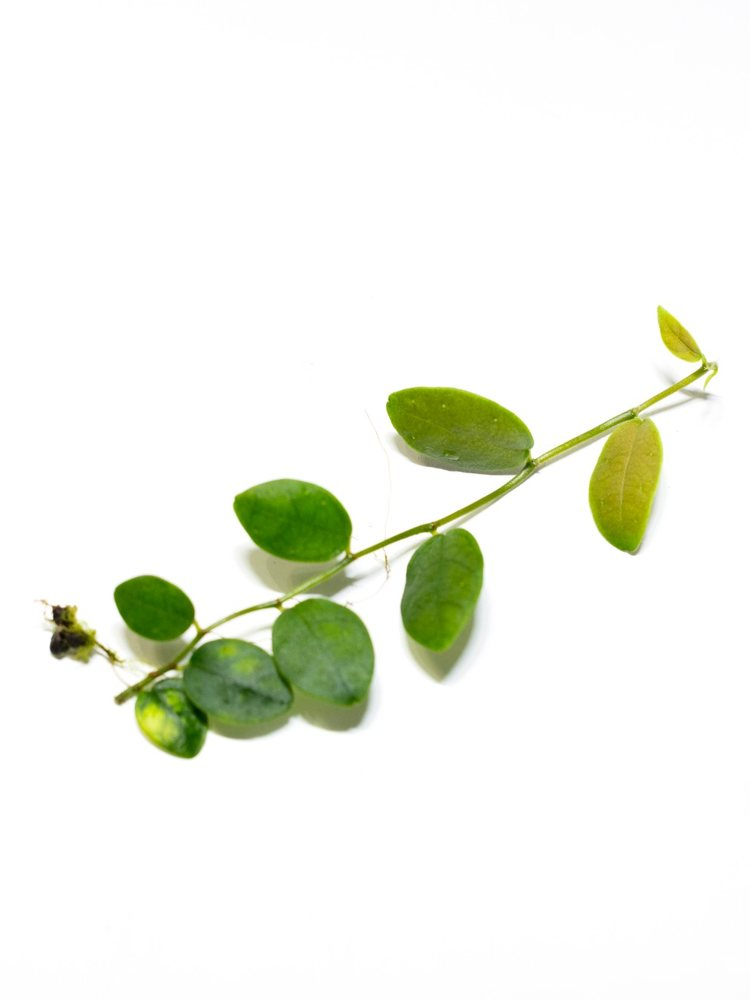
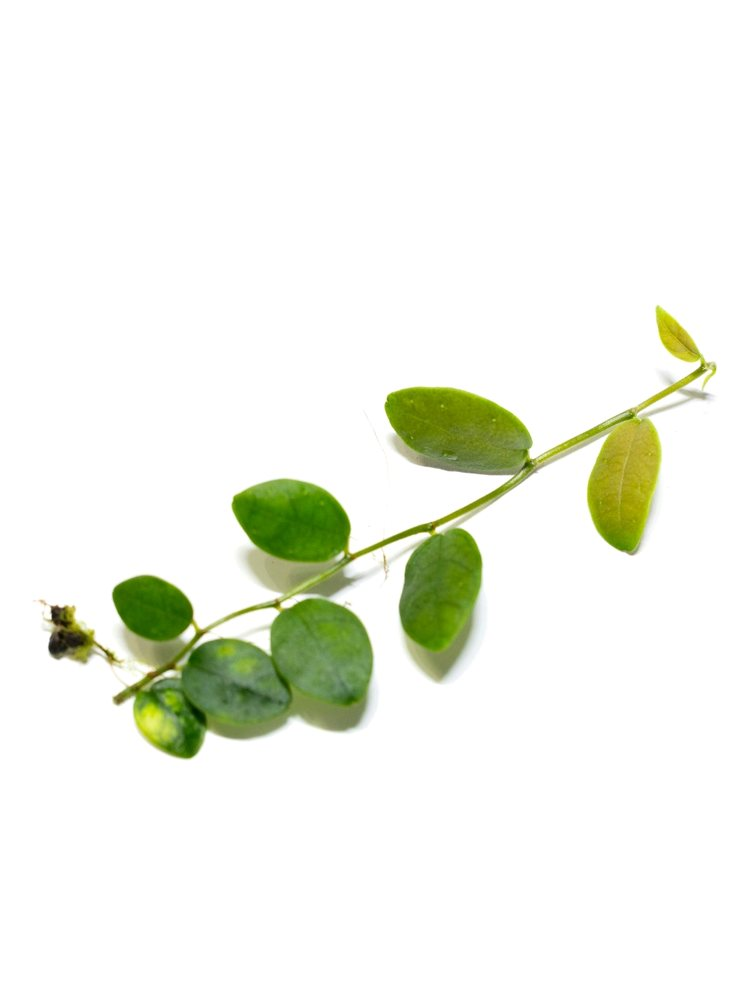
Unify product photo backgrounds and bottom fade
- tools/prepare_product_photo.py (PC repo) evens out each photo's white
  background to the same pure white (removes corner/top/bottom shading
  and color casts), then crops 3:4 around the plant at 750x1000
- Re-processed both Ficus photos with it; the same CSS bottom fade now
  applies to every product photo (the per-photo exception is gone) and
  to search thumbnails

Claude-Session: https://claude.ai/code/session_01RTzuFWkWY9WEpCoxYCoC66

diff --git a/assets/css/style.css b/assets/css/style.css
@@ -191,12 +191,11 @@ button, input, select { font: inherit; color: inherit; }
 .card { position: relative; }
 .card__link { display: block; }
 .card__img { position: relative; display: block; aspect-ratio: 3 / 4; overflow: hidden; background: #f4f4f2; }
-/* 사진 아래쪽 옅은 그라데이션 — 무룽 라야 사진의 자연스러운 그늘과 같은 정도(아래 70%부터 약 5.5%) */
+/* 모든 상품 사진 아래쪽에 같은 옅은 그라데이션 (아래 70%부터 약 5.5%) — 사진 배경은 도구로 순백 통일 */
 .card__img::after {
   content: ""; position: absolute; inset: 0; pointer-events: none;
   background: linear-gradient(to bottom, rgba(23, 23, 23, 0) 68%, rgba(23, 23, 23, .055) 100%);
 }
-.card.no-shade .card__img::after { display: none; }
 
 .card__img img { width: 100%; height: 100%; object-fit: cover; }
 .card__body { display: block; padding-top: 10px; }
@@ -242,7 +241,8 @@ button, input, select { font: inherit; color: inherit; }
 
 .search__results { max-height: calc(100svh - 220px - env(safe-area-inset-top)); margin: 4px 0 0; padding: 0; overflow-y: auto; list-style: none; }
 .hit { display: grid; grid-template-columns: 46px 1fr auto; gap: 14px; align-items: center; padding: 10px 0; border-bottom: 1px solid var(--line); }
-.hit__img { display: block; aspect-ratio: 3 / 4; overflow: hidden; background: #f4f4f2; }
+.hit__img { position: relative; display: block; aspect-ratio: 3 / 4; overflow: hidden; background: #f4f4f2; }
+.hit__img::after { content: ""; position: absolute; inset: 0; pointer-events: none; background: linear-gradient(to bottom, rgba(23, 23, 23, 0) 68%, rgba(23, 23, 23, .055) 100%); }
 .hit__img img { width: 100%; height: 100%; object-fit: cover; }
 .hit__name { display: block; font-size: 13px; line-height: 1.45; }
 .hit__sci { display: block; font-size: 11px; color: var(--muted); }

diff --git a/plant/index.html b/plant/index.html
@@ -54,11 +54,11 @@
   <link rel="preconnect" href="https://fonts.googleapis.com">
   <link rel="preconnect" href="https://fonts.gstatic.com" crossorigin>
   <link rel="stylesheet" href="https://fonts.googleapis.com/css2?family=Figtree:ital,wght@0,300;0,700;0,800;1,300;1,700&family=Noto+Sans+KR:wght@300;700&family=Noto+Sans+JP:wght@300;700&display=swap">
-  <link rel="stylesheet" href="/assets/css/style.css?v=20261118n">
+  <link rel="stylesheet" href="/assets/css/style.css?v=20261118o">
 </head>
 <body class="page-sub">
   <!-- 상단 바 · PLANT 메뉴 (공통: assets/js/layout.js) -->
-  <script src="/assets/js/layout.js?v=20261118n"></script>
+  <script src="/assets/js/layout.js?v=20261118o"></script>
   <script>PM_LAYOUT.top()</script>
 
   <!-- ───────── PLANT 목록 ─────────
@@ -79,9 +79,9 @@
   <!-- 하단 · 검색 · 언어 창 (공통: assets/js/layout.js) -->
   <script>PM_LAYOUT.bottom()</script>
 
-  <script src="/assets/js/i18n.js?v=20261118n" defer></script>
-  <script src="/assets/js/main.js?v=20261118n" defer></script>
-  <script src="/assets/js/products.js?v=20261118n" defer></script>
-  <script src="/assets/js/plant.js?v=20261118n" defer></script>
+  <script src="/assets/js/i18n.js?v=20261118o" defer></script>
+  <script src="/assets/js/main.js?v=20261118o" defer></script>
+  <script src="/assets/js/products.js?v=20261118o" defer></script>
+  <script src="/assets/js/plant.js?v=20261118o" defer></script>
 </body>
 </html>

diff --git a/assets/js/products.js b/assets/js/products.js
@@ -7,8 +7,8 @@
    sci      : 학명 [이탤릭으로 쓸 부분, 나머지]   예) ['Ficus', 'sp. ‘Murung Raya’']
    price    : 원 단위 숫자 (예: 32000). 아직 정하지 않았으면 null → '가격 문의'로 표시
    status   : 'available'(판매 중) | 'soldout'(품절)
-   image    : 세로 3:4 사진 (assets/img/products/ 에 올린 파일)
-   shade    : 사진 아래쪽에 옅은 그라데이션을 자동으로 넣습니다. 사진 자체에 이미 그늘이 있으면 false
+   image    : 세로 3:4 사진 — PC 저장소의 tools/prepare_product_photo.py 로 만든 파일
+              (흰 배경을 같은 순백으로 고르고 3:4로 자름. 아래쪽 그라데이션은 사이트가 똑같이 넣음)
  */
 window.PM_PRODUCTS = [
   {
@@ -18,8 +18,7 @@ window.PM_PRODUCTS = [
     sci: ['Ficus', 'sp. ‘Murung Raya’'],
     price: 22000,
     status: 'available',
-    image: '/assets/img/products/ficus-murung-raya.jpg',
-    shade: false                   /* 사진에 이미 아래쪽 그늘이 있음 */
+    image: '/assets/img/products/ficus-murung-raya.jpg?v=2'
   },
   {
     id: 'ficus-punctata',
@@ -28,6 +27,6 @@ window.PM_PRODUCTS = [
     sci: ['Ficus punctata', ''],
     price: 60000,
     status: 'available',
-    image: '/assets/img/products/ficus-punctata.jpg'
+    image: '/assets/img/products/ficus-punctata.jpg?v=2'
   }
 ];

diff --git a/index.html b/index.html
@@ -54,11 +54,11 @@
   <link rel="preconnect" href="https://fonts.googleapis.com">
   <link rel="preconnect" href="https://fonts.gstatic.com" crossorigin>
   <link rel="stylesheet" href="https://fonts.googleapis.com/css2?family=Figtree:ital,wght@0,300;0,700;0,800;1,300;1,700&family=Noto+Sans+KR:wght@300;700&family=Noto+Sans+JP:wght@300;700&display=swap">
-  <link rel="stylesheet" href="/assets/css/style.css?v=20261118n">
+  <link rel="stylesheet" href="/assets/css/style.css?v=20261118o">
 </head>
 <body>
   <!-- 상단 바 · PLANT 메뉴 (공통: assets/js/layout.js) -->
-  <script src="/assets/js/layout.js?v=20261118n"></script>
+  <script src="/assets/js/layout.js?v=20261118o"></script>
   <script>PM_LAYOUT.top()</script>
 
   <!-- ───────── 홈 ───────── -->
@@ -99,8 +99,8 @@
   <!-- 하단 · 검색 · 언어 창 (공통: assets/js/layout.js) -->
   <script>PM_LAYOUT.bottom()</script>
 
-  <script src="/assets/js/i18n.js?v=20261118n" defer></script>
-  <script src="/assets/js/products.js?v=20261118n" defer></script>
-  <script src="/assets/js/main.js?v=20261118n" defer></script>
+  <script src="/assets/js/i18n.js?v=20261118o" defer></script>
+  <script src="/assets/js/products.js?v=20261118o" defer></script>
+  <script src="/assets/js/main.js?v=20261118o" defer></script>
 </body>
 </html>

diff --git a/assets/js/plant.js b/assets/js/plant.js
@@ -35,7 +35,7 @@
     const name = (p.name && (p.name[lang] || p.name.ko)) || p.id;
     const sold = p.status === 'soldout';
     const [italic = '', rest = ''] = p.sci || [];
-    return `<li class="card${sold ? ' is-soldout' : ''}${p.shade === false ? ' no-shade' : ''}" id="p-${esc(p.id)}">
+    return `<li class="card${sold ? ' is-soldout' : ''}" id="p-${esc(p.id)}">
       <a class="card__link" href="#" data-soon="${esc(name)}">
         <span class="card__img"><img src="${esc(p.image)}" alt="${esc(name)}" width="750" height="1000" loading="lazy"></span>
         ${sold ? `<span class="card__badge">${esc(t('soldOut'))}</span>` : ''}
